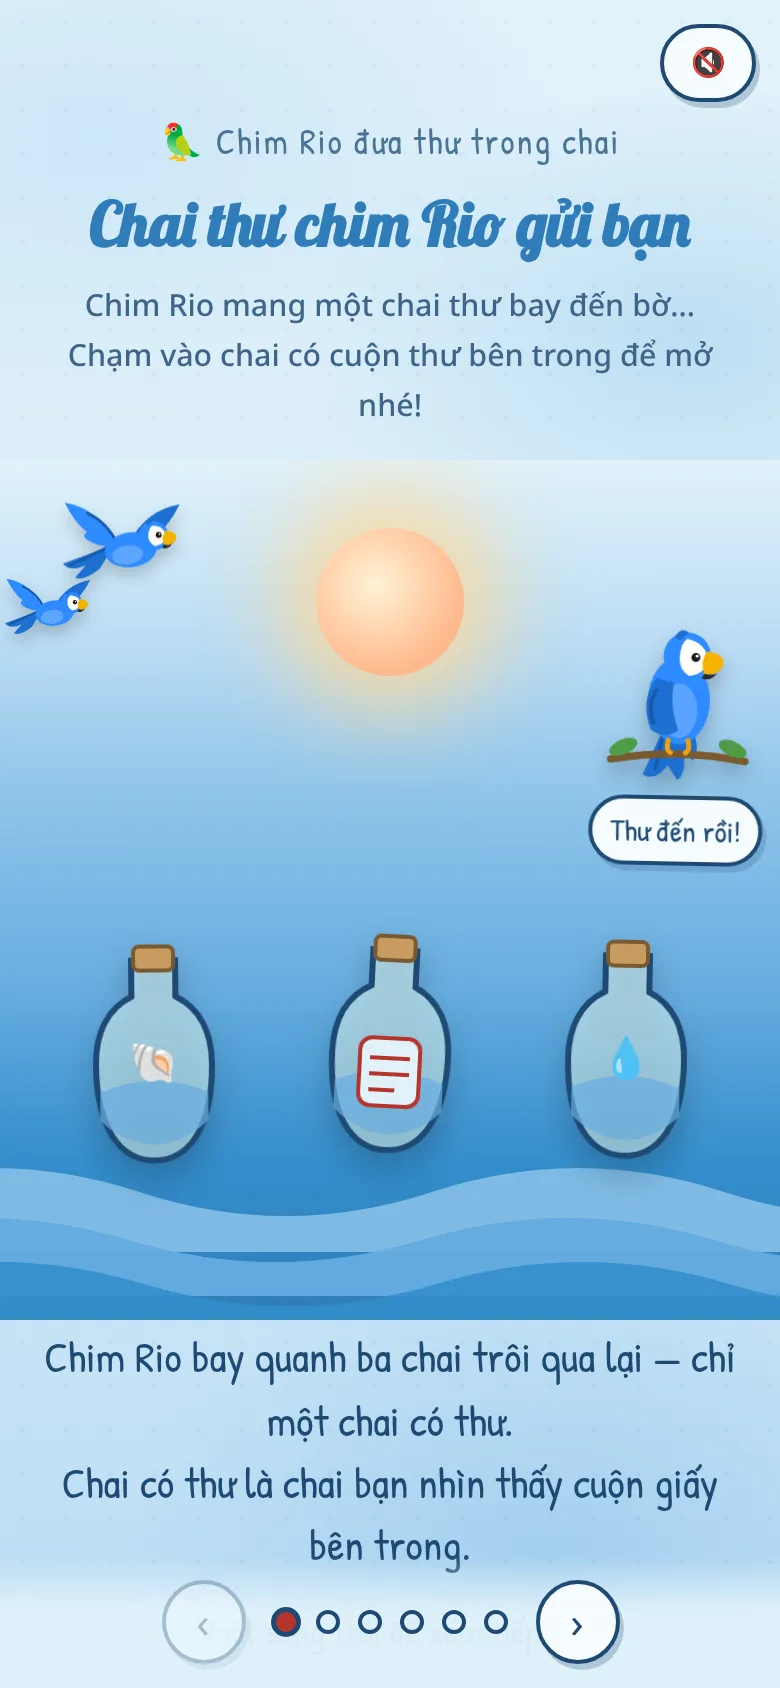
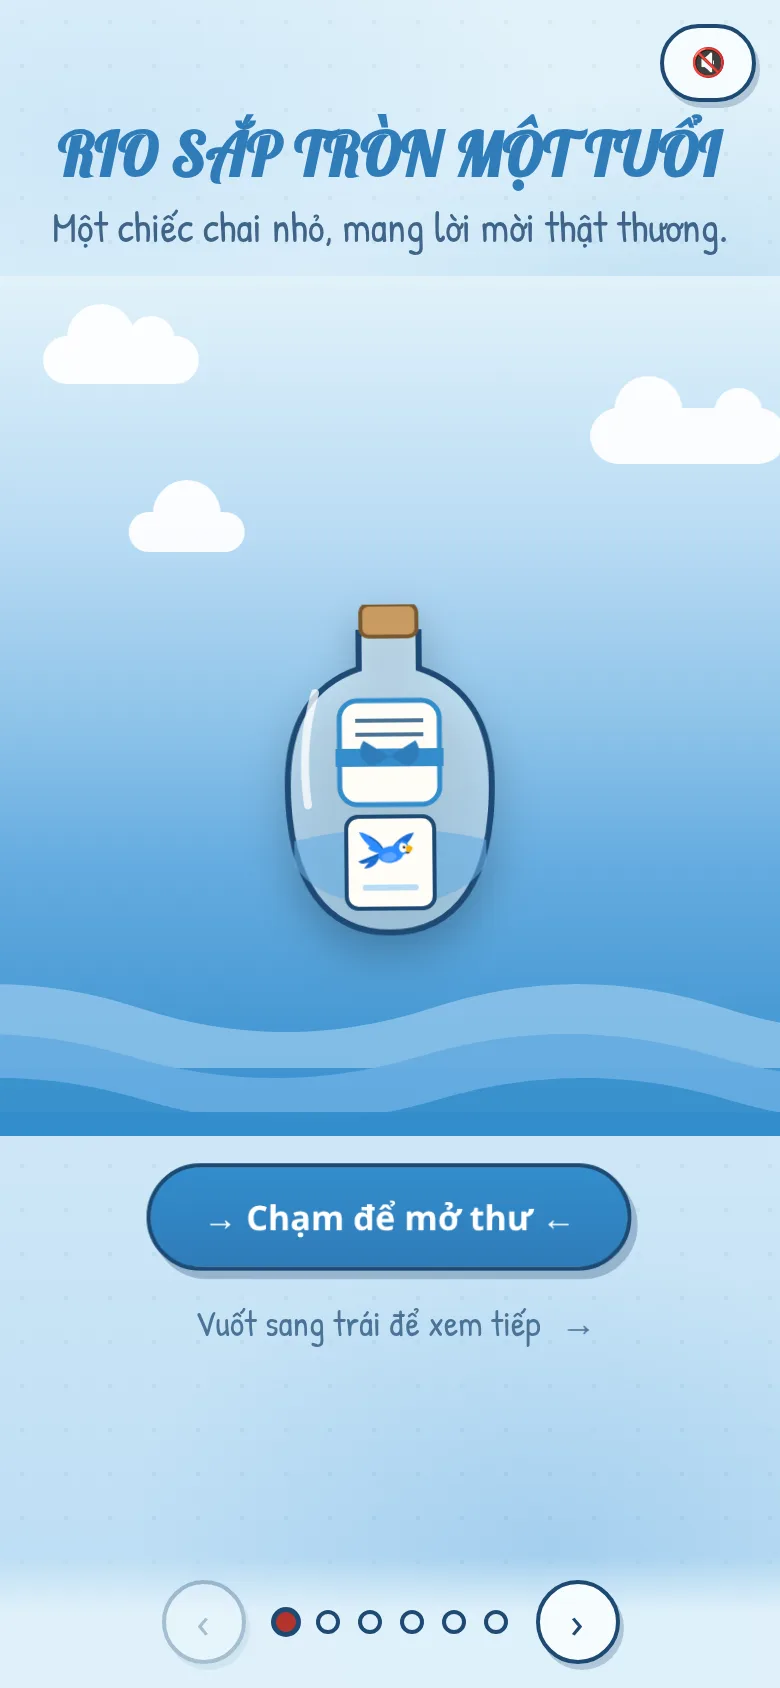
gen 352: bia moi - mot chai thu, troi xanh pastel + may troi, cham de mo thu

diff --git a/assets/js/data.js b/assets/js/data.js
@@ -7465,7 +7465,7 @@ const PRODUCTS = [
         id: 352,
         name: 'Thôi Nôi Bé Dương — Chai Thư & Chim Rio',
         slug: 'thoi-noi-be-duong-chai-thu-chim-rio',
-        description: 'Thiệp mời thôi nôi online dạng thư trong chai do chim Rio đưa thư, vuốt ngang 6 trang: mini game chọn chai có thư, tờ thư viết tay có dấu sáp và ảnh polaroid, vẽ lời chúc lên cát, nhật ký năm đầu đời lật polaroid, bản đồ chim Rio bay tới Trung Tâm Yến Tiệc Và Hội Nghị Amor Resort, phong bì hồi âm tem chim Rio. Minh hoạ chim Rio vẹt xanh bay, đậu cành và mang chai thư. Âm thanh guitar mộc, sóng và tiếng chim Rio mặc định tắt.',
+        description: 'Thiệp mời thôi nôi online dạng thư trong chai do chim Rio đưa thư, vuốt ngang 6 trang: bìa một chai thư trôi giữa biển, chạm để mở thư, tờ thư viết tay có dấu sáp và ảnh polaroid, vẽ lời chúc lên cát, nhật ký năm đầu đời lật polaroid, bản đồ chim Rio bay tới Trung Tâm Yến Tiệc Và Hội Nghị Amor Resort, phong bì hồi âm tem chim Rio. Minh hoạ chim Rio vẹt xanh bay, đậu cành và mang chai thư. Âm thanh guitar mộc, sóng và tiếng chim Rio mặc định tắt.',
         category: 'other',
         type: 'invitation',
         style: '',
@@ -7483,7 +7483,7 @@ const PRODUCTS = [
         demoUrl: './products/Invitation/Other/gen_352_thu-trong-chai-chim-rio/index.html',
         variants: [],
         features: [
-            'Vuốt ngang 6 trang, chấm chỉ số trang, mini game chọn chai có thư',
+            'Bìa một chai thư trôi giữa biển, chạm để mở thư; vuốt ngang 6 trang, chấm chỉ số trang',
             'Chim Rio vẹt xanh: bay quanh biển, đậu cành, đậu trên thư, bay dọc bản đồ, mang chai thư bay đi',
             'Thư viết tay hiện dần, ảnh polaroid kẹp gỗ, vẽ lời chúc lên cát, nhật ký lật polaroid',
             'Bản đồ chim Rio, đếm ngược đồng hồ cát, hồi âm tem chim Rio, âm thanh guitar + sóng + chim Rio mặc định tắt',
